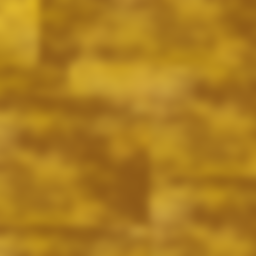
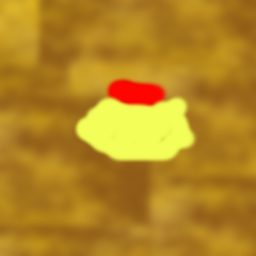
Fixed mesh physics, got it rendering too

Changed region(s): [[0.2812, 0.2812, 0.7812, 0.6562]]

diff --git a/src/map.cpp b/src/map.cpp
@@ -259,12 +259,13 @@ int Map::load(string name, Render * render)
 	}
 	
 	// Meshes
+	// These should be a Y-up wavefront OBJ file.
 	num_types = cfg_size(cfg, "mesh");
 	for (j = 0; j < num_types; j++) {
 		cfg_sub = cfg_getnsec(cfg, "mesh", j);
 		
 		MapMesh * m = new MapMesh();
-		m->xform = btTransform(btQuaternion(0.0f, 0.0f, 0.0f, 0.0f), btVector3(cfg_getnfloat(cfg_sub, "pos", 0), cfg_getnfloat(cfg_sub, "pos", 1), cfg_getnfloat(cfg_sub, "pos", 2)));
+		m->xform = btTransform(btQuaternion(0.0f, 0.0f, 0.0f, 1.0f), btVector3(cfg_getnfloat(cfg_sub, "pos", 0), cfg_getnfloat(cfg_sub, "pos", 1), cfg_getnfloat(cfg_sub, "pos", 2)));
 
 		{
 			string filename = mod->directory;
@@ -625,9 +626,10 @@ bool Map::preGame()
 
 	// Meshy goodness
 	for (vector<MapMesh*>::iterator it = this->meshes.begin(); it != this->meshes.end(); it++) {
-		btTriangleMesh *trimesh = new btTriangleMesh(false, false);
-
 		WavefrontObj *obj = (*it)->mesh;
+		obj->calcBoundingSize();
+
+		btTriangleMesh *trimesh = new btTriangleMesh(false, false);
 		int j = 0;
 		for (unsigned int i = 0; i < obj->faces.size(); i++) {
 			Face * f = &obj->faces.at(i);
@@ -637,21 +639,20 @@ bool Map::preGame()
 				obj->vertexes.at(f->v3 - 1).toBtVector3()
 			);
 		}
-
-		btCollisionShape* mesh = new btBvhTriangleMeshShape(trimesh, true, true);
-
+		btCollisionShape* meshShape = new btBvhTriangleMeshShape(trimesh, true, true);
+		
 		btDefaultMotionState* motionState = new btDefaultMotionState((*it)->xform);
-		btRigidBody::btRigidBodyConstructionInfo groundRigidBodyCI(
+		btRigidBody::btRigidBodyConstructionInfo meshRigidBodyCI(
 			0,
 			motionState,
-			mesh,
+			meshShape,
 			btVector3(0,0,0)
 		);
-		
-		ground = new btRigidBody(groundRigidBodyCI);
-		ground->setRestitution(0.f);
-		ground->setFriction(10.f);
-		this->st->physics->addRigidBody(ground, CG_TERRAIN);
+		btRigidBody *meshBody = new btRigidBody(meshRigidBodyCI);
+		meshBody->setRestitution(0.f);
+		meshBody->setFriction(10.f);
+
+		this->st->physics->addRigidBody(meshBody, CG_TERRAIN);
 	}
 }
 

diff --git a/src/render/render_opengl_compat.cpp b/src/render/render_opengl_compat.cpp
@@ -1007,6 +1007,7 @@ void RenderOpenGLCompat::map()
 	// TODO: Should this be a part of the mesh create instead of part of the render?
 	glScalef(this->st->curr_map->heightmapScaleX(), 1.0f, this->st->curr_map->heightmapScaleY());
 	
+	// Main terrain
 	glBindBuffer(GL_ARRAY_BUFFER, this->ter_vboid);
 	glVertexPointer(3, GL_FLOAT, 32, BUFFER_OFFSET(0));
 	glNormalPointer(GL_FLOAT, 32, BUFFER_OFFSET(12));
@@ -1016,12 +1017,30 @@ void RenderOpenGLCompat::map()
 	
 	glPopMatrix();
 	
+	// Static geometry
+	glFrontFace(GL_CCW);
+	for (vector<MapMesh*>::iterator it = st->curr_map->meshes.begin(); it != st->curr_map->meshes.end(); it++) {
+		glBindTexture(GL_TEXTURE_2D, (*it)->texture->pixels);
+
+		glPushMatrix();
+
+		btScalar m[16];
+		(*it)->xform.getOpenGLMatrix(m);
+		glMultMatrixf((GLfloat*)m);
+
+		this->renderObj((*it)->mesh);
+
+		glPopMatrix();
+	}
+
 	glDisableClientState(GL_VERTEX_ARRAY);
 	glDisableClientState(GL_NORMAL_ARRAY);
 	glDisableClientState(GL_TEXTURE_COORD_ARRAY);
 	
 	glDisable(GL_CULL_FACE);
 
+
+	
 
 	// Water surface
 	if (this->st->curr_map->water) {
